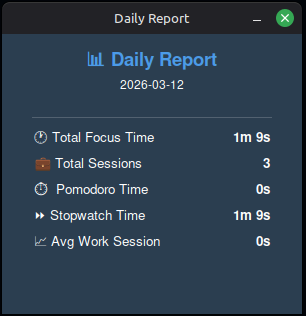
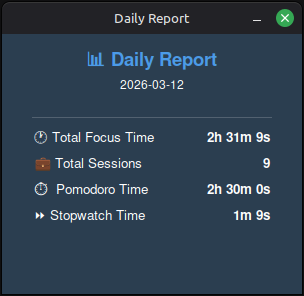
update tests

Changed region(s): [[0.0888, 0.3953, 0.8882, 0.7905], [0.0, 0.0, 1.0, 1.0], [0.2664, 0.152, 0.7105, 0.3041]]

diff --git a/tests/test_pomodoro.py b/tests/test_pomodoro.py
@@ -89,7 +89,7 @@ def attach_fake_ui(monkeypatch):
     monkeypatch.setattr(pomodoro, "timer_label", FakeWidget(), raising=False)
     monkeypatch.setattr(pomodoro, "start_btn", FakeWidget(), raising=False)
     monkeypatch.setattr(pomodoro, "continue_btn", FakeWidget(), raising=False)
-    monkeypatch.setattr(pomodoro, "restart_btn", FakeWidget(), raising=False)
+    monkeypatch.setattr(pomodoro, "stop_btn", FakeWidget(), raising=False)
     monkeypatch.setattr(pomodoro, "skip_btn", FakeWidget(), raising=False)
     monkeypatch.setattr(pomodoro, "mode_frame", FakeFrame(), raising=False)
     return root
@@ -250,25 +250,50 @@ def test_update_timer_long_break_completion_resets_cycle(tmp_path, monkeypatch):
     assert modes == ["Work"]
 
 
-def test_restart_pomodoro_resets_stopwatch_mode(tmp_path, monkeypatch):
+def test_stop_pomodoro_logs_work_session(tmp_path, monkeypatch):
     reset_state(tmp_path, monkeypatch)
     attach_fake_ui(monkeypatch)
+    monkeypatch.setattr(pomodoro, "HISTORY_FILE", tmp_path / "history.json")
     monkeypatch.setattr(pomodoro, "timer_running", True)
-    pomodoro.settings["timer_mode"] = "Stopwatch"
-    modes = []
-    monkeypatch.setattr(pomodoro, "set_mode", lambda mode: modes.append(mode))
+    monkeypatch.setattr(pomodoro, "current_mode", "Work")
+    pomodoro.settings["work_time"] = 25
+    monkeypatch.setattr(pomodoro, "pomodoro_time", 15 * 60)  # 10 mins spent
 
-    pomodoro.restart_pomodoro()
+    pomodoro.stop_pomodoro()
 
     assert pomodoro.timer_running is False
-    assert modes == ["Stopwatch"]
-    assert pomodoro.continue_btn.pack_forget_calls == 1
-    assert pomodoro.restart_btn.pack_forget_calls == 1
-    assert pomodoro.start_btn.config_calls[-1] == {
-        "text": "Start",
-        "command": pomodoro.start_pomodoro,
-        "bootstyle": "primary",
-    }
+    history = pomodoro.load_history()
+    assert len(history) == 1
+    assert history[0]["type"] == "Work"
+    assert history[0]["duration_seconds"] == 10 * 60
+
+
+def test_stop_pomodoro_logs_stopwatch_session(tmp_path, monkeypatch):
+    reset_state(tmp_path, monkeypatch)
+    attach_fake_ui(monkeypatch)
+    monkeypatch.setattr(pomodoro, "HISTORY_FILE", tmp_path / "history.json")
+    monkeypatch.setattr(pomodoro, "timer_running", True)
+    monkeypatch.setattr(pomodoro, "current_mode", "Stopwatch")
+    
+    # Mock datetime to control elapsed time
+    from datetime import datetime, timedelta
+    start_time = datetime.now()
+    monkeypatch.setattr(pomodoro, "stopwatch_start_time", start_time)
+    
+    # Force datetime.now() to be 30s later
+    class MockDateTime:
+        @classmethod
+        def now(cls):
+            return start_time + timedelta(seconds=30)
+    monkeypatch.setattr(pomodoro, "datetime", MockDateTime)
+
+    pomodoro.stop_pomodoro()
+
+    assert pomodoro.timer_running is False
+    history = pomodoro.load_history()
+    assert len(history) == 1
+    assert history[0]["type"] == "Stopwatch"
+    assert history[0]["duration_seconds"] == 30
 
 
 def test_skip_break_moves_to_work_mode(tmp_path, monkeypatch):
@@ -283,7 +308,27 @@ def test_skip_break_moves_to_work_mode(tmp_path, monkeypatch):
 
     assert pomodoro.timer_running is False
     assert pomodoro.continue_btn.pack_forget_calls == 1
-    assert pomodoro.restart_btn.pack_forget_calls == 1
+    assert pomodoro.stop_btn.pack_forget_calls == 1
     assert pomodoro.skip_btn.pack_forget_calls == 1
     assert modes == ["Work"]
+
+
+def test_log_session_ignores_short_sessions(tmp_path, monkeypatch):
+    monkeypatch.setattr(pomodoro, "HISTORY_FILE", tmp_path / "history.json")
+    
+    pomodoro.log_session("Work", 5)
+    
+    assert not (tmp_path / "history.json").exists()
+
+
+def test_log_session_appends_to_history(tmp_path, monkeypatch):
+    monkeypatch.setattr(pomodoro, "HISTORY_FILE", tmp_path / "history.json")
+    
+    pomodoro.log_session("Work", 15 * 60)
+    pomodoro.log_session("Stopwatch", 30)
+    
+    history = pomodoro.load_history()
+    assert len(history) == 2
+    assert history[0]["type"] == "Work"
+    assert history[1]["type"] == "Stopwatch"
 

diff --git a/pomodoro.py b/pomodoro.py
@@ -474,7 +474,6 @@ def create_app():
         total_focus_secs = total_work_secs + total_sw_secs
 
         num_work = len(work_sessions)
-        avg_work_secs = (total_work_secs // num_work) if num_work > 0 else 0
 
         def fmt_time(secs):
             h, rem = divmod(int(secs), 3600)
@@ -488,7 +487,7 @@ def create_app():
         report_win = tb.Toplevel(root)
         apply_window_icon(report_win)
         report_win.title("Daily Report")
-        report_win.geometry("300x280")
+        report_win.geometry("300x260")
         report_win.attributes("-topmost", True)
         report_win.resizable(False, False)
 
@@ -527,7 +526,6 @@ def create_app():
         stat_row("💼 Total Sessions", str(total_sessions), "primary")
         stat_row("⏱  Pomodoro Time", fmt_time(total_work_secs), "primary")
         stat_row("⏩ Stopwatch Time", fmt_time(total_sw_secs), "success")
-        stat_row("📈 Avg Work Session", fmt_time(avg_work_secs), "warning")
 
         if not today_sessions:
             tb.Label(

diff --git a/README.md b/README.md
@@ -34,7 +34,7 @@ Build and install a native `.deb` package for full desktop integration:
 
 ```bash
 bash build_deb.sh
-sudo dpkg -i pomodoro-timer_0.1.1_amd64.deb
+sudo dpkg -i pomodoro-timer_amd64.deb
 ```
 
 ### Windows — Build standalone executable
